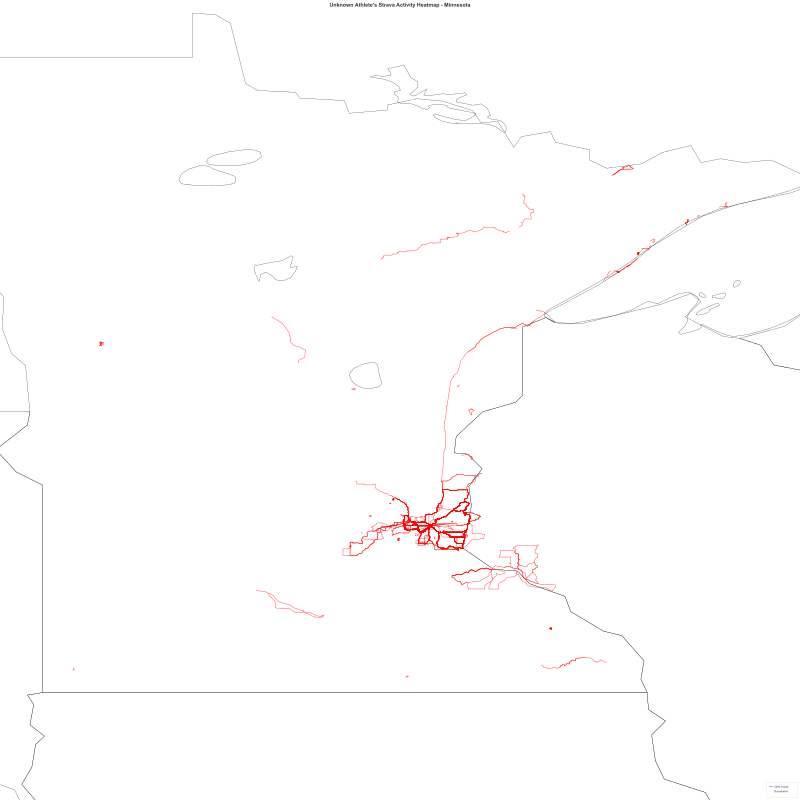
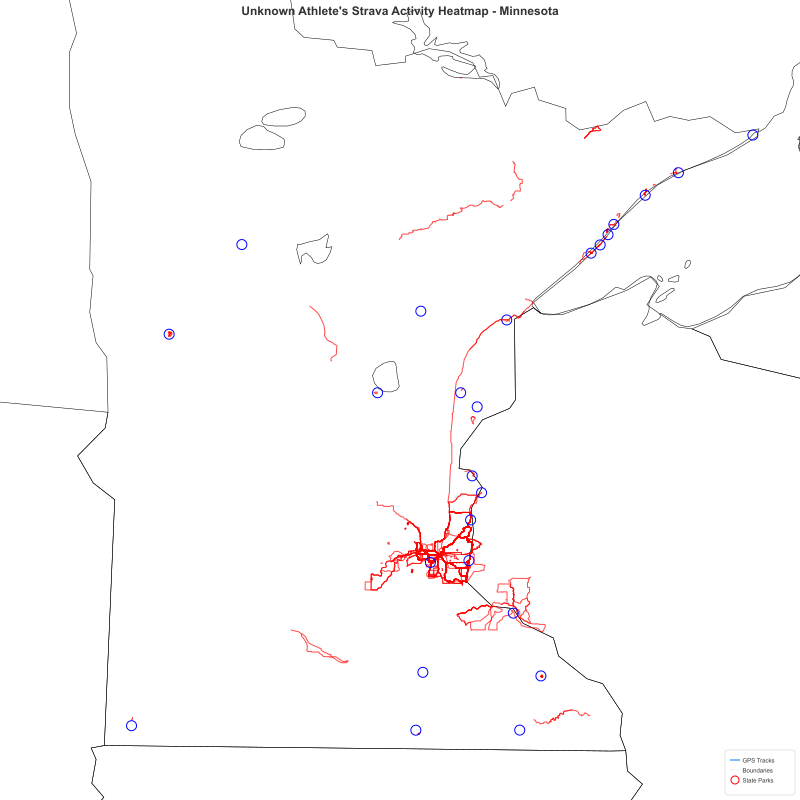
Implement Minnesota state parks visualization system
- Add comprehensive state parks database (59 parks) with accurate GPS coordinates
- Implement individual park control system via config.json settings
- Add customizable circle markers with color, size, and stroke width control
- Update SVG renderer with state parks rendering and legend support
- Move state parks data to map_cache/ directory for better organization
- Update documentation with complete state parks feature description
- Regenerate Minnesota heatmap PNG with state parks visualization

🤖 Generated with [Claude Code](https://claude.ai/code)

diff --git a/svg_renderer.py b/svg_renderer.py
@@ -282,18 +282,50 @@ class SVGRenderer:
         title_text.set('fill', '#333')
         title_text.text = title
     
+    def add_state_parks(self, state_parks_data: List[Dict[str, Any]], 
+                       stroke_color: str = '#ff0000', fill_color: str = 'none',
+                       radius: int = 20, stroke_width: int = 2):
+        """Add state parks as circles to the SVG"""
+        if not self.svg_root:
+            raise ValueError("SVG not initialized")
+        
+        parks_group = ET.SubElement(self.svg_root, 'g')
+        parks_group.set('id', 'state-parks')
+        
+        for park in state_parks_data:
+            geometry = park.get('geometry', {})
+            coordinates = geometry.get('coordinates', [])
+            properties = park.get('properties', {})
+            
+            if len(coordinates) >= 2:
+                lon, lat = coordinates[0], coordinates[1]
+                x, y = self.lat_lon_to_svg(lat, lon)
+                
+                # Create circle element
+                circle = ET.SubElement(parks_group, 'circle')
+                circle.set('cx', f'{x:.2f}')
+                circle.set('cy', f'{y:.2f}')
+                circle.set('r', str(radius))
+                circle.set('stroke', stroke_color)
+                circle.set('stroke-width', str(stroke_width))
+                circle.set('fill', fill_color)
+                
+                # Add park name as title for tooltips
+                title = ET.SubElement(circle, 'title')
+                title.text = properties.get('name', 'State Park')
+
     def add_legend(self):
         if not self.svg_root:
             raise ValueError("SVG not initialized")
         
         legend_group = ET.SubElement(self.svg_root, 'g')
         legend_group.set('id', 'legend')
-        legend_group.set('transform', f'translate({self.width - 150}, {self.height - 80})')
+        legend_group.set('transform', f'translate({self.width - 150}, {self.height - 100})')
         
         # Legend background
         legend_bg = ET.SubElement(legend_group, 'rect')
         legend_bg.set('width', '140')
-        legend_bg.set('height', '70')
+        legend_bg.set('height', '90')
         legend_bg.set('fill', 'white')
         legend_bg.set('stroke', '#ccc')
         legend_bg.set('stroke-width', '1')
@@ -332,6 +364,23 @@ class SVGRenderer:
         boundary_text.set('font-size', '12')
         boundary_text.set('fill', '#333')
         boundary_text.text = 'Boundaries'
+        
+        # State parks legend
+        park_circle = ET.SubElement(legend_group, 'circle')
+        park_circle.set('cx', '20')
+        park_circle.set('cy', '60')
+        park_circle.set('r', '8')
+        park_circle.set('stroke', '#ff0000')
+        park_circle.set('stroke-width', '2')
+        park_circle.set('fill', 'none')
+        
+        park_text = ET.SubElement(legend_group, 'text')
+        park_text.set('x', '35')
+        park_text.set('y', '65')
+        park_text.set('font-family', 'Arial, sans-serif')
+        park_text.set('font-size', '12')
+        park_text.set('fill', '#333')
+        park_text.text = 'State Parks'
     
     def save_svg(self, filename: str):
         if not self.svg_root:

diff --git a/generate_heatmap_svg.py b/generate_heatmap_svg.py
@@ -9,6 +9,7 @@ progress reporting, and data validation.
 """
 
 import argparse
+import json
 from heatmap_generator import HeatmapGenerator
 from map_data import MapDataProvider
 from svg_renderer import SVGRenderer
@@ -286,6 +287,48 @@ Examples:
                 stroke_width=style_config["track_width"],
                 opacity=style_config["track_opacity"]
             )
+            
+            # Add state parks if enabled and we're in a Minnesota region
+            if args.region in ['minnesota', 'saint_paul_100km']:
+                parks_config = boundary_config.get("usa", {}).get("state_parks", {})
+                if parks_config.get("enabled", False):
+                    try:
+                        parks_file = parks_config.get("data_file", "map_cache/minnesota_state_parks.json")
+                        print(f"  Loading state parks from {parks_file}...")
+                        
+                        with open(parks_file, 'r') as f:
+                            parks_data = json.load(f)
+                        
+                        # Get individual park settings
+                        park_settings = config.get("minnesota_state_parks", {})
+                        
+                        if parks_data.get("features"):
+                            # Filter parks based on individual settings
+                            enabled_parks = []
+                            for park in parks_data["features"]:
+                                park_name = park.get("properties", {}).get("name", "")
+                                if park_settings.get(park_name, True):  # Default to True if not specified
+                                    enabled_parks.append(park)
+                            
+                            if enabled_parks:
+                                print(f"  Adding {len(enabled_parks)} state parks (filtered from {len(parks_data['features'])} total)...")
+                                renderer.add_state_parks(
+                                    enabled_parks,
+                                    stroke_color=parks_config.get("color", "#ff0000"),
+                                    fill_color=parks_config.get("fill", "none"),
+                                    radius=parks_config.get("radius", 20),
+                                    stroke_width=parks_config.get("stroke_width", 2)
+                                )
+                            else:
+                                print("  No state parks enabled in configuration")
+                        else:
+                            print("  No state parks found in data file")
+                    except FileNotFoundError:
+                        progress_reporter.add_warning(f"State parks file not found: {parks_file}")
+                    except Exception as e:
+                        progress_reporter.add_warning(f"Failed to load state parks: {e}")
+                else:
+                    print("  State parks rendering disabled in configuration")
             
             # Add title and metadata
             athlete_name = f"{athlete_info['firstname']} {athlete_info['lastname']}"

diff --git a/CLAUDE.md b/CLAUDE.md
@@ -9,6 +9,7 @@ This is a professional-grade Python application that downloads GPS data from Str
 **Key Features:**
 - Regional GPS filtering (Japan, USA, Minnesota, Saint Paul 100km radius)
 - Multi-layer geographic boundary rendering (prefectures, states, lakes)
+- Minnesota state parks visualization (59 parks with individual control)
 - Unified visual design (3600x3600 pixels, 2.0 width GPS tracks)
 - Automatic boundary optimization for performance
 - PNG export capabilities for documentation
@@ -299,8 +300,29 @@ flowchart TD
         "enabled": true,
         "color": "#999999",
         "width": "0.3"
+      },
+      "state_parks": {
+        "enabled": true,
+        "color": "#0000ff",
+        "fill": "none",
+        "radius": 10,
+        "stroke_width": 2,
+        "data_file": "map_cache/minnesota_state_parks.json"
       }
     }
+  },
+  "minnesota_state_parks": {
+    "Afton State Park": true,
+    "Banning State Park": true,
+    "Bear Head Lake State Park": false,
+    "Blue Mounds State Park": true,
+    "Cascade River State Park": true,
+    "Itasca State Park": true,
+    "John A. Latsch State Park": false,
+    "Maplewood State Park": true,
+    "Split Rock Lighthouse State Park": true,
+    "Temperance River State Park": true,
+    "Whitewater State Park": true
   },
   "download": {
     "max_years": 8,
@@ -322,6 +344,7 @@ flowchart TD
 - **New**: Region-specific boundary settings (Japan, USA, Minnesota)
 - **New**: Customizable colors, widths, and enable/disable flags for all boundary types
 - **New**: Automatic geographic region detection and boundary loading
+- **New**: Minnesota state parks individual control system (59 parks)
 
 ## Detailed Boundary System (2025-07-02)
 
@@ -369,6 +392,76 @@ flowchart TD
 - Automatic cache management and updates
 - Offline operation after initial download
 
+## Minnesota State Parks System (2025-07-07)
+
+### 🏞 State Parks Features
+
+**Comprehensive Parks Database:**
+- **59 Minnesota state parks**: Complete coverage including state parks, recreation areas, and monuments
+- **Accurate GPS coordinates**: Verified latitude/longitude for precise positioning
+- **Individual control**: Each park can be enabled/disabled independently
+- **Automatic display**: Parks shown only in Minnesota regions (minnesota, saint_paul_100km)
+
+**Configuration Structure:**
+```json
+{
+  "boundaries": {
+    "usa": {
+      "state_parks": {
+        "enabled": true,
+        "color": "#0000ff",
+        "fill": "none", 
+        "radius": 10,
+        "stroke_width": 2,
+        "data_file": "map_cache/minnesota_state_parks.json"
+      }
+    }
+  },
+  "minnesota_state_parks": {
+    "Itasca State Park": true,
+    "Gooseberry Falls State Park": true,
+    "Split Rock Lighthouse State Park": true,
+    "Bear Head Lake State Park": false,
+    "Franz Jevne State Park": false
+  }
+}
+```
+
+**Data File Structure (map_cache/minnesota_state_parks.json):**
+```json
+{
+  "type": "FeatureCollection",
+  "features": [
+    {
+      "type": "Feature",
+      "properties": {
+        "name": "Itasca State Park",
+        "type": "State Park",
+        "city": "Park Rapids"
+      },
+      "geometry": {
+        "type": "Point",
+        "coordinates": [-95.2097, 47.1926]
+      }
+    }
+  ]
+}
+```
+
+**Visual Styling:**
+- **Circle markers**: Configurable radius (default 10 pixels)
+- **Customizable colors**: Default blue (#0000ff), fully configurable
+- **Stroke control**: Adjustable line width (default 2px)
+- **Fill options**: None by default, can be customized
+- **Tooltips**: Park names displayed on hover
+
+**Parks Included:**
+- Major parks: Itasca, Gooseberry Falls, Split Rock Lighthouse, Tettegouche
+- North Shore parks: Temperance River, Cascade River, Judge C.R. Magney
+- Metro area parks: Afton, Fort Snelling, William O'Brien
+- Southern parks: Blue Mounds, Whitewater, Forestville/Mystery Cave
+- All other Minnesota state parks, recreation areas, and select monuments
+
 ## Dependencies
 
 ### Core Dependencies
@@ -404,7 +497,9 @@ athlete_info_latest.json            # Athlete information
 **Output Files:**
 ```
 strava_heatmap.svg                  # Generated heatmap
+strava_heatmap_minnesota.svg        # Minnesota region heatmap with state parks
 map_cache/                          # Geographic boundary cache
+map_cache/minnesota_state_parks.json  # Minnesota state parks coordinate data
 ```
 
 ### 🔄 Automatic File Management
@@ -556,6 +651,13 @@ map_cache/                          # Geographic boundary cache
 - Add new regions to `filter_gps_data_by_region()` function
 
 **Recent Feature Additions:**
+
+**2025-07-07: Minnesota State Parks System:**
+- **59 state parks database**: Complete coverage with accurate GPS coordinates
+- **Individual park control**: Enable/disable each park individually via config.json
+- **Customizable styling**: Color, size, stroke width fully configurable
+- **Automatic display**: Shows only in Minnesota regions (minnesota, saint_paul_100km)
+- **Circle markers**: 10-pixel radius blue circles with park name tooltips
 
 **2025-07-03: UTM Zone 15N Projection System:**
 - **High-accuracy projection** for Minnesota and Saint Paul regions using UTM Zone 15N (EPSG:32615)
